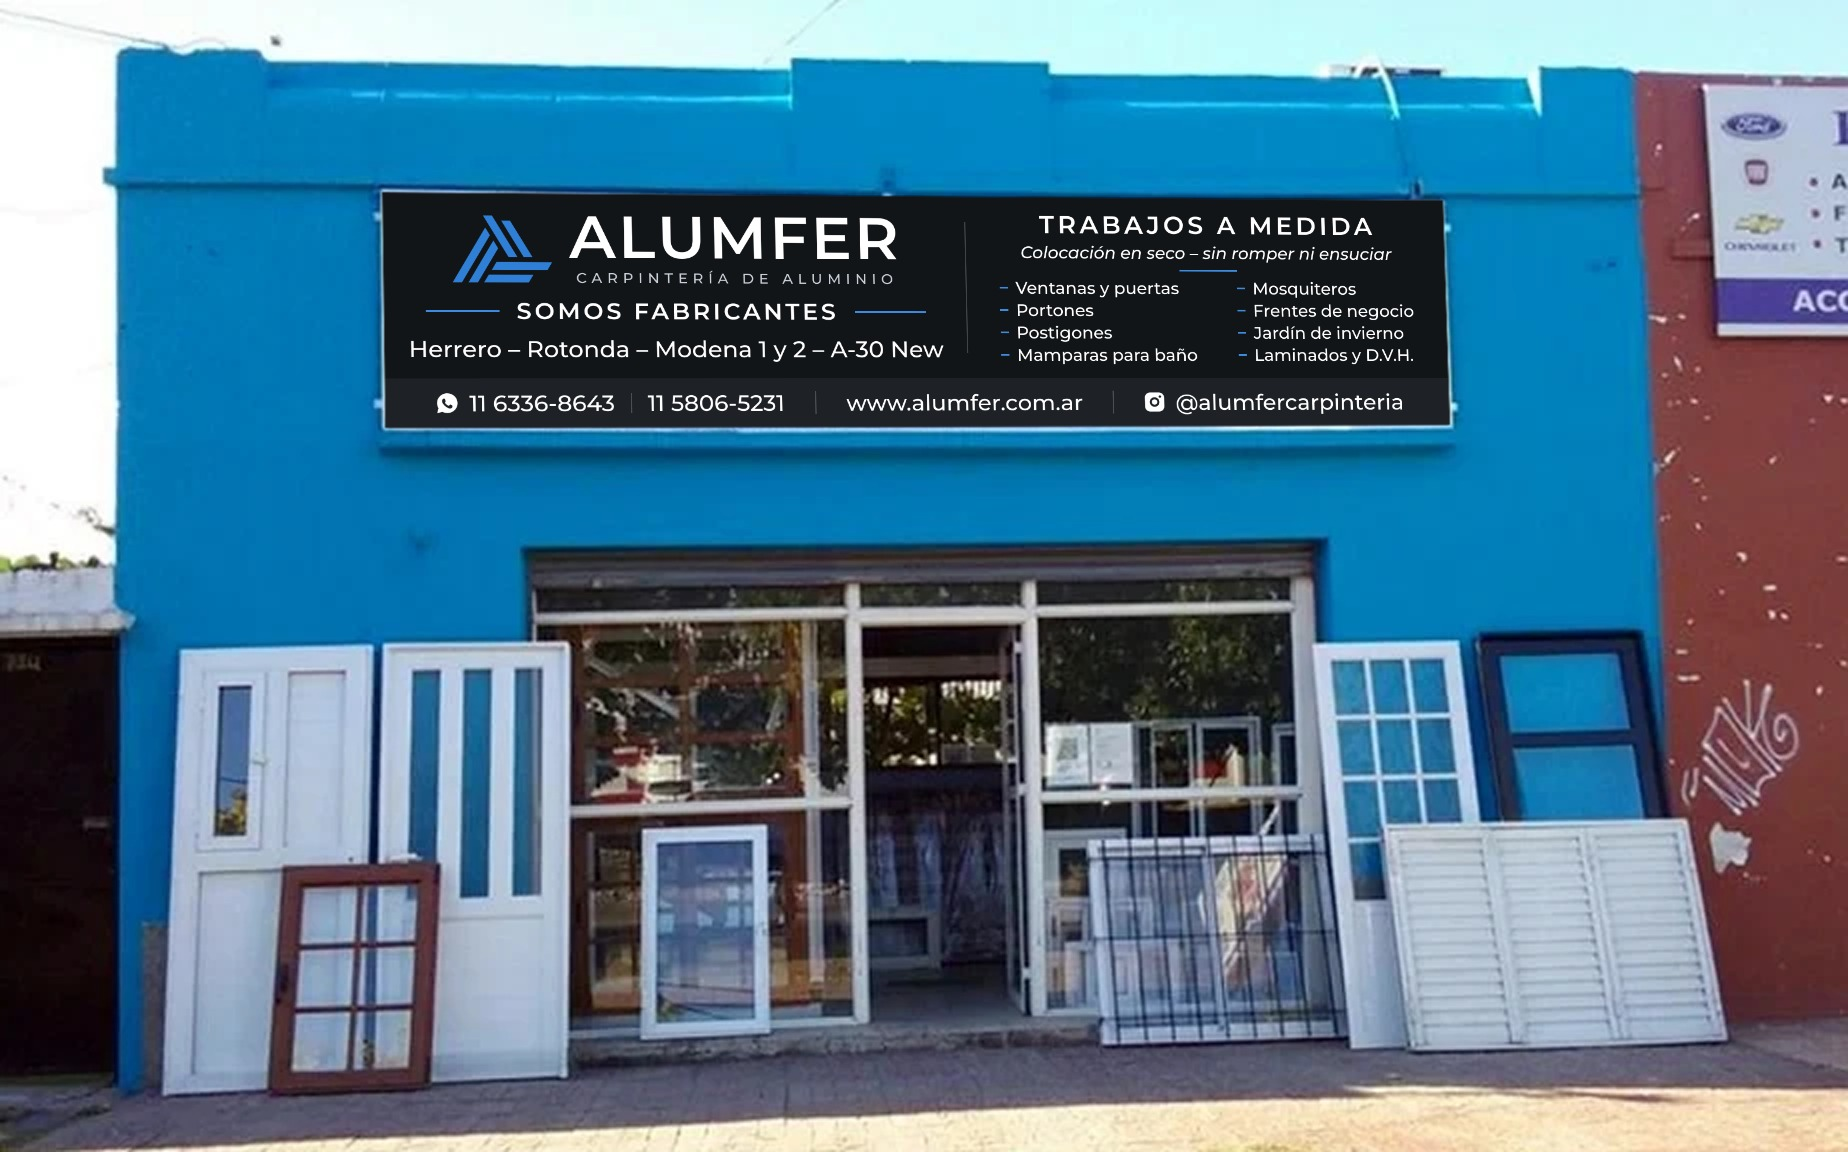
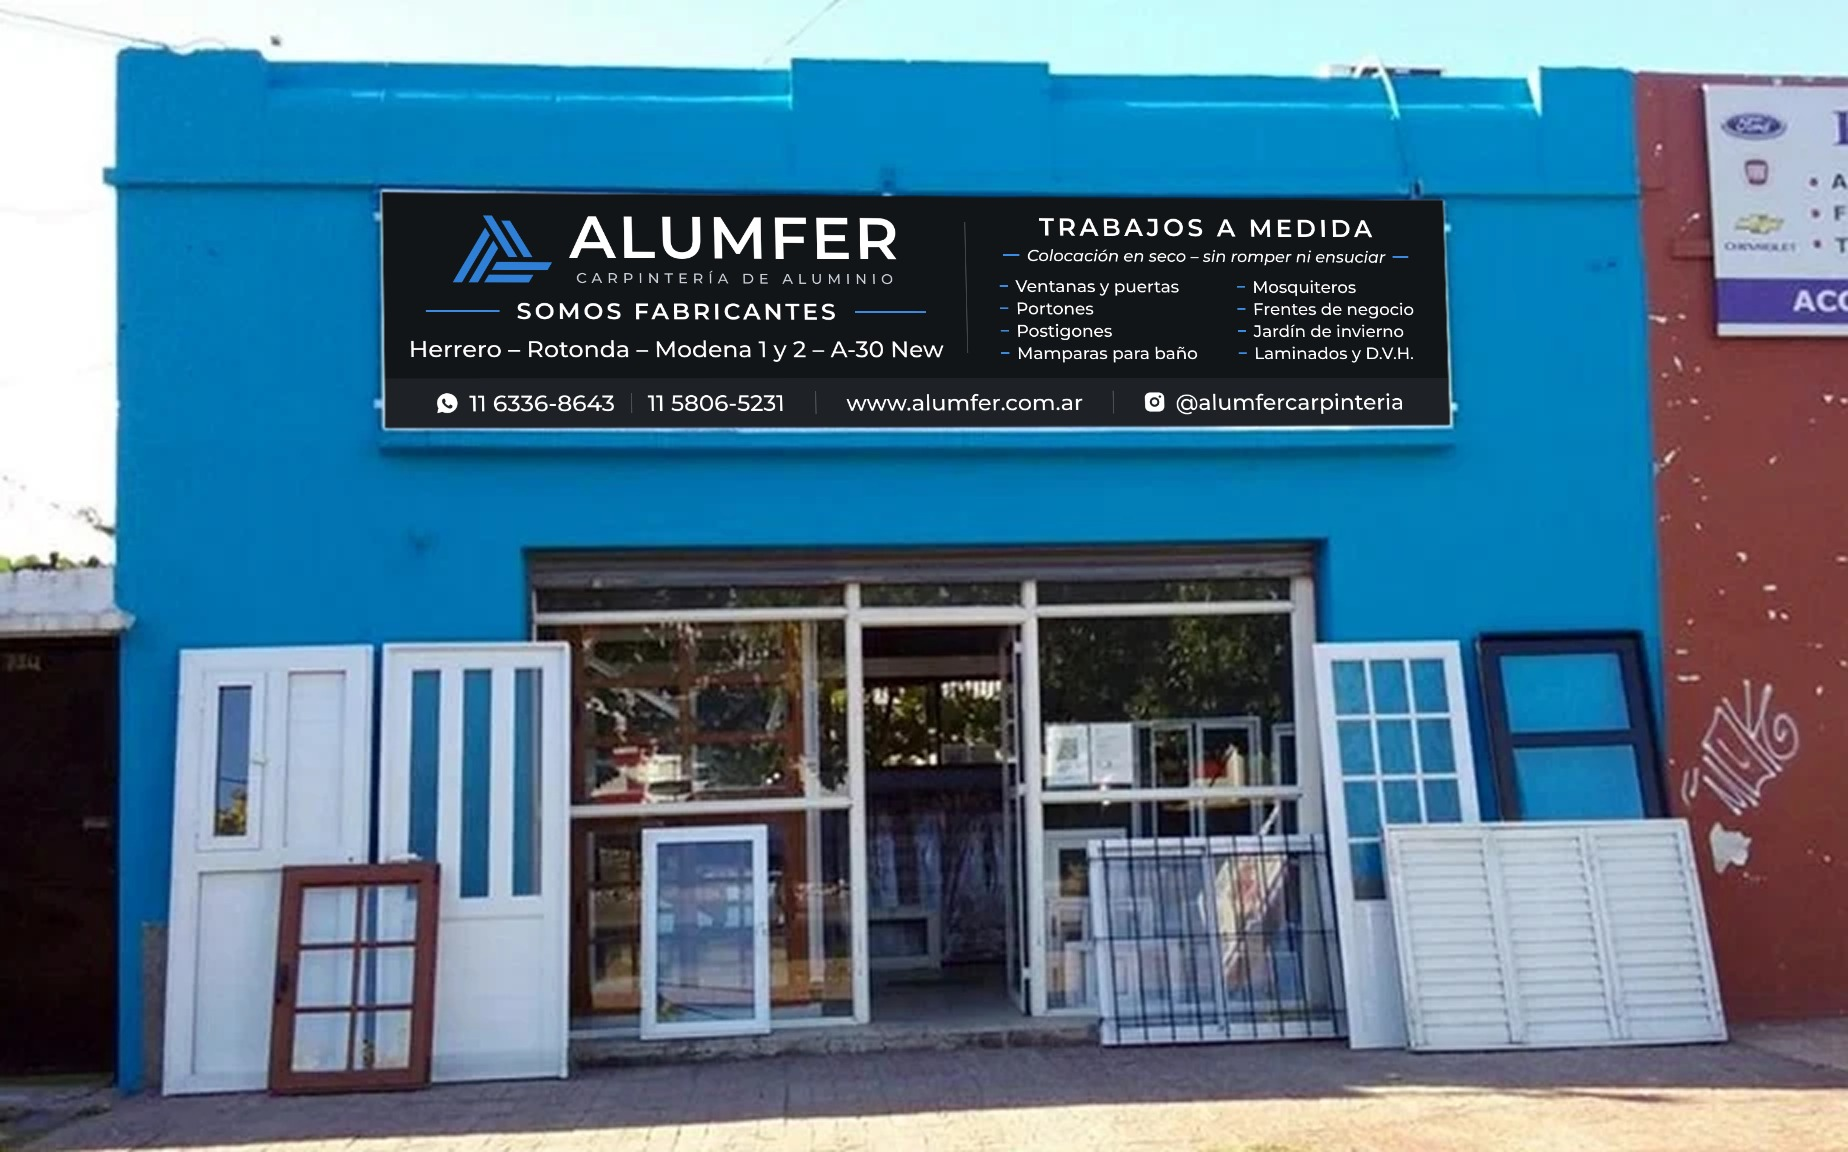
Cartel del frente: filetes laterales en la frase de colocación
Se quita la línea azul bajo la frase y vuelven los filetes a los lados.

Claude-Session: https://claude.ai/code/session_01WbdF2nhts4fFgad8iUooNo

Changed region(s): [[0.5552, 0.1875, 0.7711, 0.3125]]

diff --git a/creative/content/projects/2026-09-cartel-frente/cartel.html b/creative/content/projects/2026-09-cartel-frente/cartel.html
@@ -41,8 +41,8 @@ html,body{background:#777}
 /* ============ DERECHA: trabajos a medida ============ */
 .right{flex:1;background:var(--dark);position:relative;display:flex;flex-direction:column;justify-content:center;padding:0 58px}
 .right h2{font-weight:600;font-size:43px;letter-spacing:6px;text-transform:uppercase;line-height:1;white-space:nowrap;text-align:center;padding-left:6px}
-.right .seco{margin-top:10px;font-weight:500;font-style:italic;font-size:29px;white-space:nowrap;text-align:center}
-.right .rule{width:100px;height:3px;background:var(--blue-l);margin:12px auto 15px}
+.right .seco{margin:12px 0 22px;display:flex;align-items:center;justify-content:center;gap:13px;font-weight:500;font-style:italic;font-size:28px;white-space:nowrap}
+.right .seco::before,.right .seco::after{content:"";flex:0 0 28px;height:3px;background:var(--blue-l)}
 .prod{display:grid;grid-template-columns:auto auto;justify-content:space-between;row-gap:10px}
 .prod div{display:flex;align-items:center;gap:13px;font-weight:500;font-size:29px;line-height:1;white-space:nowrap}
 .prod div::before{content:"";width:14px;height:3px;background:var(--blue-l);flex:0 0 auto}
@@ -84,7 +84,6 @@ html,body{background:#777}
   <div class="right">
     <h2>Trabajos a medida</h2>
     <div class="seco">Colocación en seco – sin romper ni ensuciar</div>
-    <div class="rule"></div>
     <div class="prod">
       <div>Ventanas y puertas</div><div>Mosquiteros</div>
       <div>Portones</div><div>Frentes de negocio</div>
